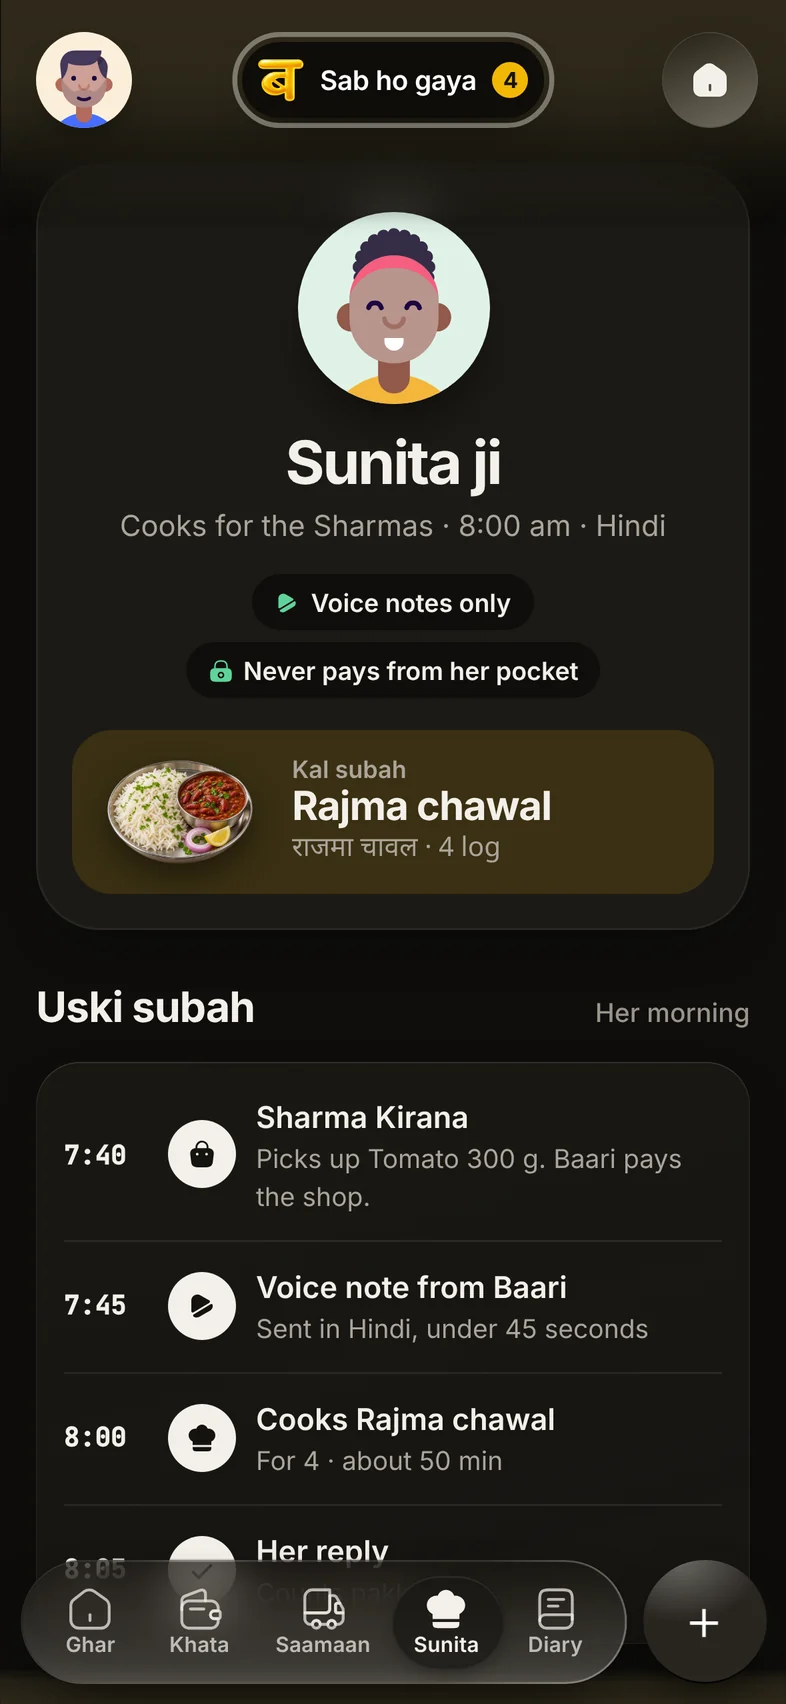
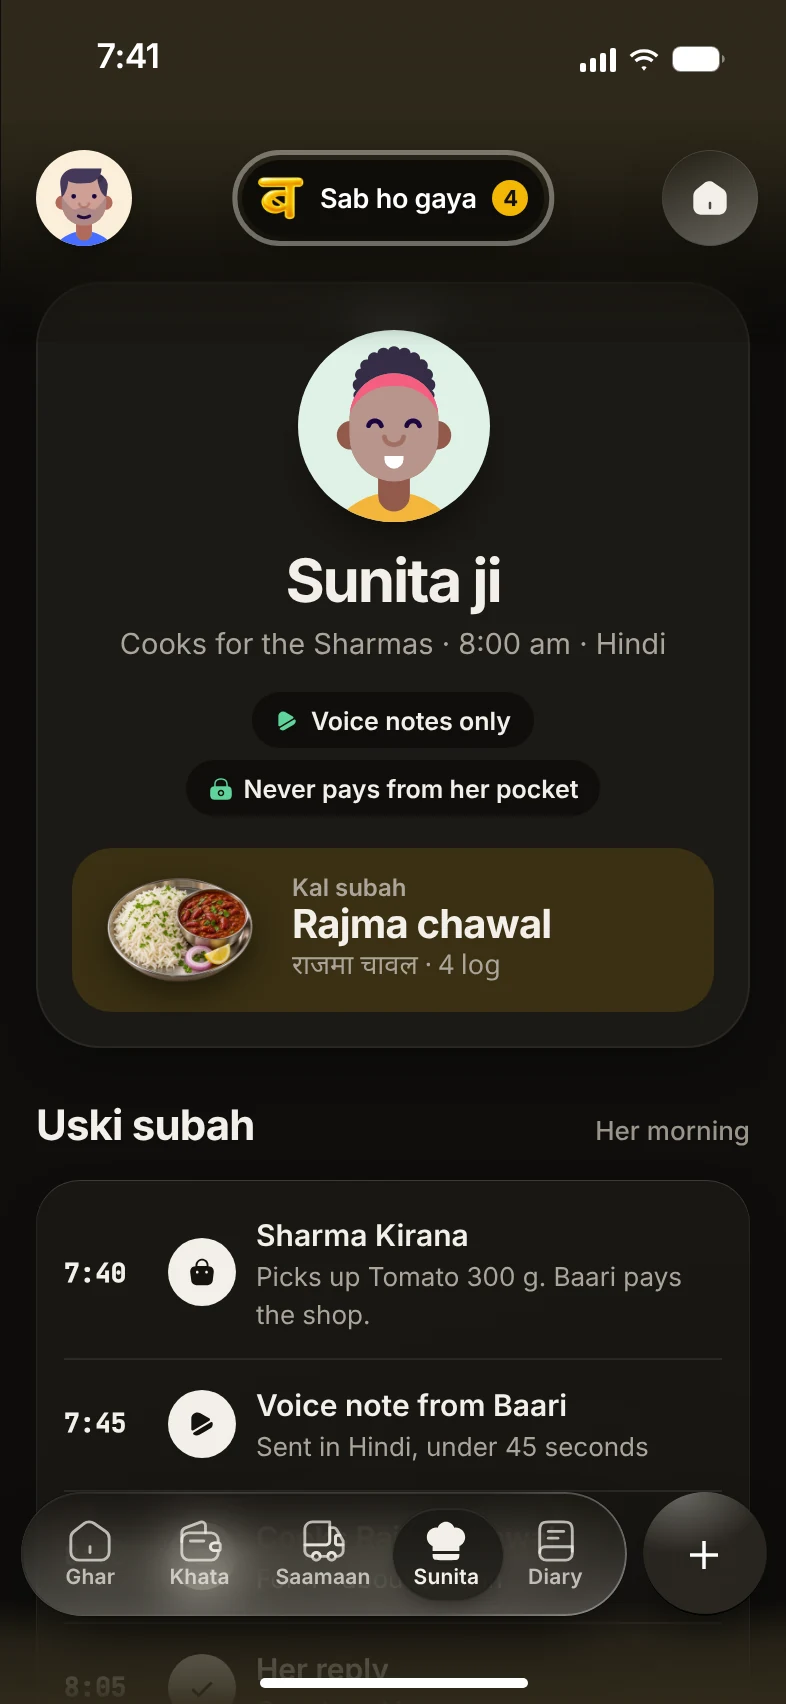
[W3] App strip: screens shot with iPhone safe areas and a real phone frame
The capture browser gave the app zero safe-area insets, so the header, dock and
+ button sat on the screen edge and the rounded frame clipped them.
docs/diagrams/screens.mjs now serves app/ itself, runs each fixture at 393 x 852
with the iPhone's 59 and 34 pt insets, and draws the status bar and home bar into
the shot. The frame keeps the screen's true shape and 55 pt corners and adds the
island cutout and side buttons.

Claude-Session: https://claude.ai/code/session_01MtfXcB2gGvThyX63hwU1tV

diff --git a/docs/diagrams/src/00-app.html b/docs/diagrams/src/00-app.html
@@ -1,12 +1,19 @@
 <!doctype html><meta charset="utf-8"><title>Baari app</title>
 <link href="https://fonts.googleapis.com/css2?family=JetBrains+Mono:wght@400;500;600;700&display=block" rel="stylesheet"><link rel="stylesheet" href="../kit.css"><script src="../kit.js"></script>
 <style>
-.canvas{width:1640px;height:700px}
+.canvas{width:1640px;height:650px}
 .row{position:absolute;left:30px;right:30px;top:40px;display:flex;justify-content:space-between}
-.ph{width:250px}
-.fr{width:250px;height:542px;border-radius:44px;padding:7px;background:#0B0B0C;box-shadow:0 1px 0 rgba(255,255,255,.4) inset,0 30px 50px -28px rgba(70,40,0,.55),0 8px 16px -10px rgba(0,0,0,.35)}
-html.dk .fr{background:#2A2722;box-shadow:0 30px 50px -28px rgba(0,0,0,.9)}
-.fr img{width:236px;height:528px;border-radius:37px;display:block;object-fit:cover;object-position:top}
+.ph{width:244px}
+/* An iPhone 15 or 16 Pro at 0.59 of its points: the screen keeps its 393 x 852
+   shape and 55 pt corners, the island cutout is the hardware one, and the status
+   bar and home bar are in the shot itself (screens.mjs). */
+.fr{position:relative;width:244px;padding:6px;border-radius:38.5px;background:#0B0B0C;
+  box-shadow:inset 0 0 0 1px #3A3631,0 0 0 1px #1B1916,0 30px 50px -28px rgba(70,40,0,.55),0 8px 16px -10px rgba(0,0,0,.35)}
+html.dk .fr{box-shadow:inset 0 0 0 1px #4A453E,0 0 0 1.5px #5A544B,0 30px 50px -28px rgba(0,0,0,.9)}
+.fr img{width:232px;height:503px;border-radius:32.5px;display:block}
+.fr::before{content:"";position:absolute;left:50%;top:12.5px;width:74px;height:22px;margin-left:-37px;border-radius:11px;background:#000}
+.fr::after{content:"";position:absolute;right:-3px;top:126px;width:3px;height:58px;border-radius:0 2px 2px 0;background:#2A2723;box-shadow:-247px -20px 0 #2A2723,-247px 22px 0 #2A2723}
+html.dk .fr::after{background:#5A544B;box-shadow:-247px -20px 0 #5A544B,-247px 22px 0 #5A544B}
 .cap{margin-top:16px;padding:0 6px}
 .cap .t{font:650 15px/1.2 var(--body)} .cap .s{font:400 11.5px/1.45 var(--mono);color:var(--text-2);margin-top:4px}
 </style>

diff --git a/README.md b/README.md
@@ -240,6 +240,7 @@ cd evals && node harness/run.js --round R4 --target platform --model azure_opena
 This runs eval cases against the platform with an AgenticOrg session from `node agenticorg-cli/ao.js login`. Results land in `evals/out/runs.csv`.
 
 ```bash
+node docs/diagrams/screens.mjs      # reshoots the app screens at iPhone size from the fixtures
 node docs/diagrams/render.mjs       # redraws every diagram here, light and dark (needs Playwright)
 ```
 
